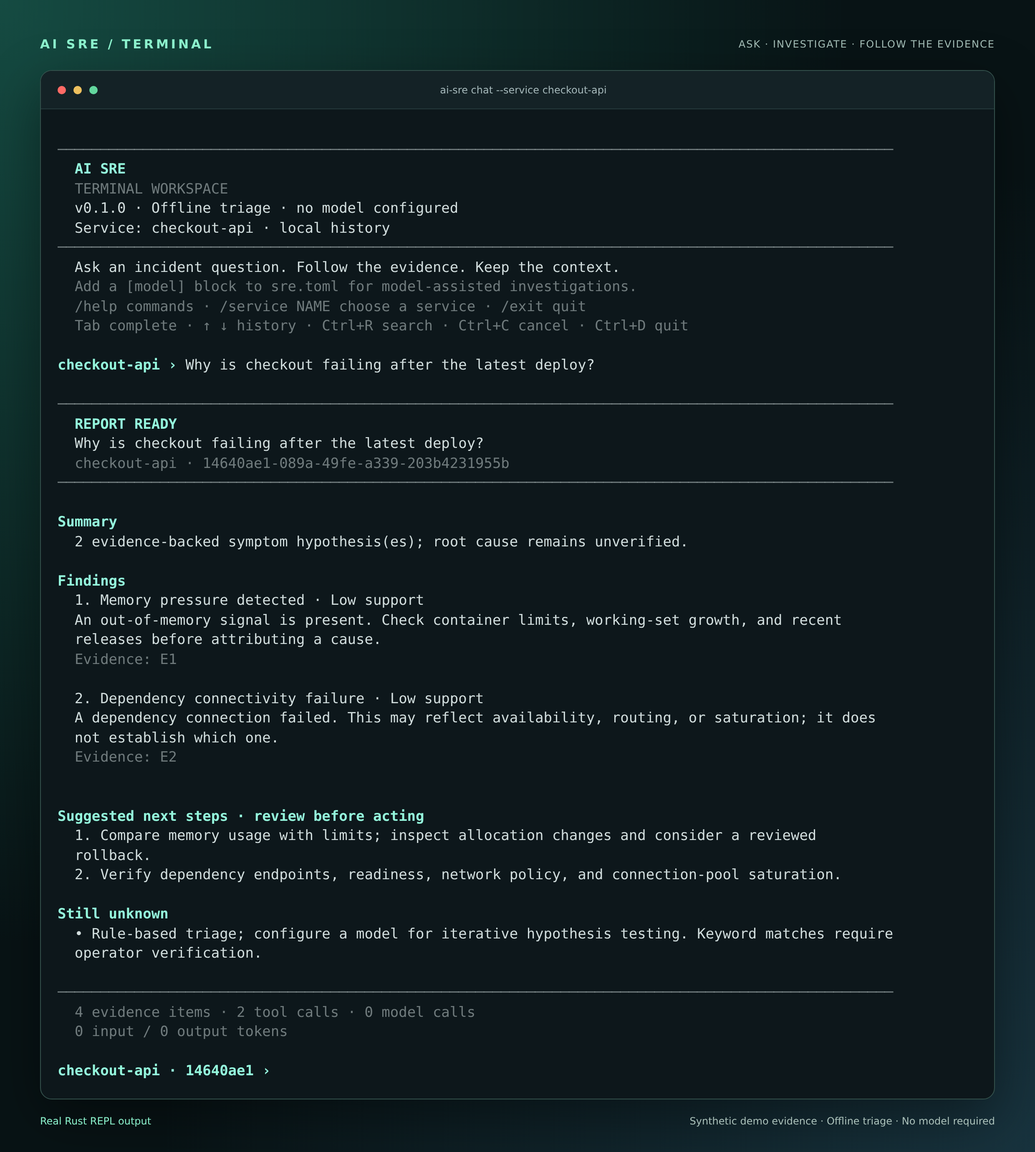
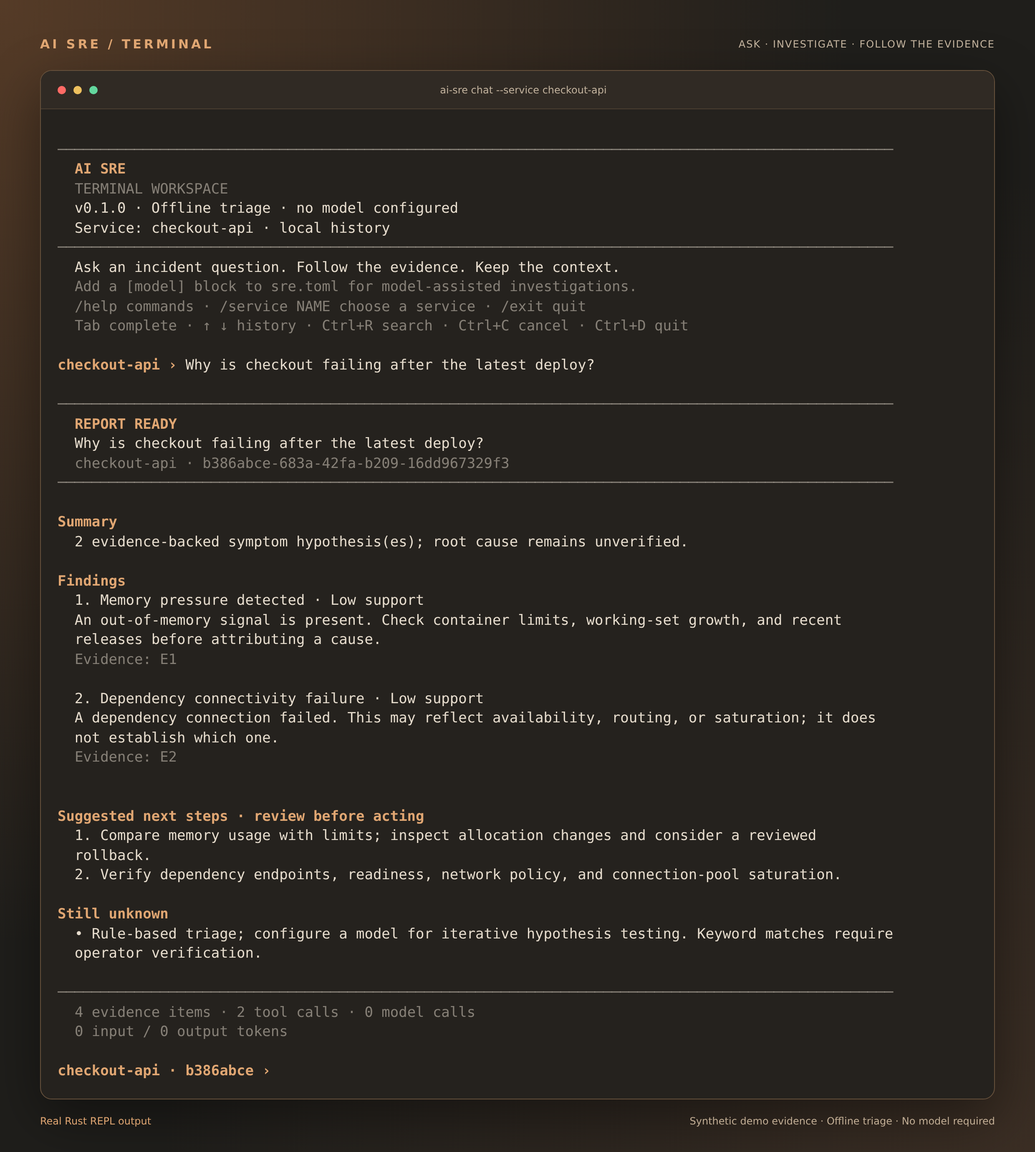
Apply a warm amber theme to the terminal and dashboard

diff --git a/web/style.css b/web/style.css
@@ -1,2 +1,6 @@
-:root{color-scheme:dark;--bg:#0a1019;--panel:#111a26;--border:#243142;--muted:#91a0b5;--text:#e7edf7;--accent:#73e5c0;--soft:#162c2b;font:14px/1.55 Inter,ui-sans-serif,-apple-system,BlinkMacSystemFont,"Segoe UI",sans-serif}*{box-sizing:border-box}body{margin:0;background:var(--bg);color:var(--text)}button,input,textarea,select{font:inherit}button,a,input,select,textarea{outline-offset:4px}button{cursor:pointer}button:disabled{opacity:.45;cursor:wait}button{border:1px solid var(--border);border-radius:7px;color:var(--text);background:transparent;padding:9px 14px}button:hover{background:#202e3c}a{color:inherit}input,textarea,select{background:#0d1520;border:1px solid var(--border);border-radius:6px;color:var(--text);padding:10px;width:100%}input:focus,textarea:focus,select:focus{outline:1px solid var(--accent)}.sidebar{width:232px;position:fixed;inset:0 auto 0 0;background:#0e1621;border-right:1px solid var(--border);padding:26px 18px}.brand{font-size:22px;font-weight:750;display:flex;align-items:center;gap:9px;text-decoration:none;letter-spacing:-1px}.brand-icon{width:30px;height:32px;color:var(--accent);font-size:36px;line-height:26px}.alpha{font-size:9px;letter-spacing:1px;color:var(--muted);border:1px solid var(--border);padding:2px 5px;border-radius:4px;margin-left:3px}.workspace{display:flex;gap:10px;padding:24px 0 30px;align-items:center;font-size:12px}.workspace small{display:block;font-size:10px;color:var(--muted)}.workspace-mark{background:#253043;border:1px solid #3b485b;border-radius:7px;padding:6px 11px;font-weight:600}.nav-label{color:#728298;letter-spacing:1.6px;font-size:10px;padding:0 10px;margin-bottom:12px}.nav-item{border:0;width:100%;display:flex;align-items:center;gap:12px;text-align:left;margin:5px 0;color:var(--muted);font-size:13px}.nav-item.active{background:#1a3030;color:var(--accent)}.nav-item b{margin-left:auto;font-size:10px;border:1px solid #2b514a;border-radius:4px;padding:0 5px}.sidebar-bottom{position:absolute;bottom:26px;font-size:11px;color:var(--muted);padding-left:8px}.sidebar-bottom small{display:block;color:#596b81;margin-top:8px}.live-dot{display:inline-block;width:6px;height:6px;border-radius:50%;background:var(--accent);margin-right:5px;box-shadow:0 0 9px #73e5c022}main{margin-left:232px}header{height:70px;border-bottom:1px solid var(--border);padding:0 36px;display:flex;justify-content:space-between;align-items:center}.breadcrumb{font-size:12px;color:var(--muted)}.breadcrumb span{margin:0 14px;color:#4c5d73}.breadcrumb strong{color:#c3cede;font-weight:500}.header-actions{display:flex;gap:18px;align-items:center}.mode{font-size:9px;letter-spacing:1.2px;color:var(--muted)}.icon-button{padding:3px 10px;font-size:21px}#incident-page,#connections-page{padding:34px 36px}.page-title{display:flex;justify-content:space-between;align-items:center;gap:20px;margin-bottom:28px}.eyebrow{font-size:9px;letter-spacing:2px;color:var(--accent);margin:0 0 10px;font-weight:650}h1{font-size:29px;line-height:1.3;font-weight:600;letter-spacing:-.8px;margin:0 0 8px}h2{font-size:15px;letter-spacing:-.2px;margin:0}h3{font-size:13px;margin:0 0 9px}.muted{color:var(--muted);font-size:12px;margin:0}.primary{color:#071d17;background:var(--accent);border-color:var(--accent);font-size:12px;font-weight:650;padding:10px 16px;white-space:nowrap}.primary:hover{background:#9bf1d6}.primary span{font-size:18px;margin-right:5px}.secondary{font-size:12px;background:#1a2635}.stats{display:grid;grid-template-columns:repeat(4,1fr);border:1px solid var(--border);border-radius:9px;background:linear-gradient(120deg,#14202c,#101924);margin-bottom:28px}.stats article{padding:18px 22px;border-right:1px solid var(--border)}.stats article:last-child{border:0}.stats span{font-size:11px;color:#b5c0d1}.stats strong{display:block;font-size:28px;line-height:1.5;font-weight:500;letter-spacing:-1px}.stats small{color:#71839b;font-size:10px}.stats i{margin-left:5px}.workbench{display:grid;grid-template-columns:minmax(230px,32%) 1fr;border:1px solid var(--border);border-radius:9px;min-height:500px;overflow:hidden;background:#0f1823}.incident-list{border-right:1px solid var(--border);padding:18px 12px}.list-heading{display:flex;align-items:center;justify-content:space-between;padding:0 6px 16px}.list-heading h2{font-size:13px}.text-button{border:0;font-size:10px;color:var(--muted);padding:3px}.search{display:flex;align-items:center;padding:0 9px;background:#0a121c;border:1px solid var(--border);border-radius:5px;margin:0 5px 10px}.search input{border:0;background:transparent;font-size:11px;padding:9px}.search span{font-size:20px;color:var(--muted)}.filter-label{display:flex;align-items:center;font-size:10px;color:var(--muted);gap:10px;padding:0 5px 12px}.filter-label select{font-size:10px;padding:5px;width:auto}.incident-card{display:block;width:100%;text-align:left;border:1px solid transparent;border-radius:6px;padding:13px 12px;margin-bottom:6px;background:transparent}.incident-card.selected{background:#192a33;border-color:#31514f}.incident-card:hover{background:#192735}.incident-card strong{display:block;font-size:12px;font-weight:500;line-height:1.6;margin:7px 0;color:var(--text);overflow-wrap:anywhere}.incident-card small{font-size:10px;color:var(--muted)}.card-top{display:flex;justify-content:space-between;align-items:center;gap:5px}.card-top .service{font:10px ui-monospace,monospace;color:#9cbbce;overflow:hidden;text-overflow:ellipsis}.badge{font-size:9px;border-radius:4px;padding:2px 6px;white-space:nowrap;text-transform:capitalize;background:#263446;color:#bdcadb}.badge.triaged{background:#163c30;color:#8be4b9}.badge.investigating{background:#183b4d;color:#80cff4}.badge.failed{background:#452a2e;color:#f2a2ad}.badge.resolved{background:#292b40;color:#b5b0e8}.detail{min-width:0}.empty{text-align:center;padding:95px 30px;color:var(--muted)}.empty-icon{font-size:40px;color:#669b98;line-height:1.5;margin-bottom:10px}.empty h2{color:#d5e1eb;font-size:19px}.empty p{max-width:320px;margin:12px auto 22px;font-size:12px}.detail-header{padding:23px 24px 18px;border-bottom:1px solid var(--border)}.detail-meta{display:flex;gap:10px;align-items:center;margin-bottom:12px;font-size:10px;color:var(--muted)}.detail-header h2{font-size:20px;font-weight:550;line-height:1.5;overflow-wrap:anywhere}.detail-actions{display:flex;gap:8px;margin-top:15px}.detail-actions button{font-size:10px;padding:6px 10px}.tabs{display:flex;padding:0 24px;border-bottom:1px solid var(--border);gap:24px}.tabs button{border:0;border-bottom:2px solid transparent;border-radius:0;color:var(--muted);padding:12px 0;font-size:11px}.tabs button.active{color:var(--accent);border-bottom-color:var(--accent)}.detail-body{padding:22px 24px}.summary{font-size:13px;line-height:1.7;margin:0 0 20px}.section-label{font-size:9px;letter-spacing:1.5px;color:var(--muted);margin:22px 0 12px}.finding{padding:15px;border:1px solid #28423f;border-radius:6px;background:#132824;margin-bottom:12px}.finding h3{color:#a6e7d2}.finding p{color:#b3c9c7;font-size:12px;margin:6px 0 12px;line-height:1.7}.citation{display:inline-block;font:10px ui-monospace,monospace;background:#214239;color:#a1e9d2;border:1px solid #345d50;border-radius:3px;padding:2px 6px;margin-right:5px;cursor:pointer}.confidence{float:right;font-size:9px;color:#8eb7a9;font-weight:400}.steps{padding-left:19px;font-size:12px;color:#c8d2e0}.steps li{padding:4px 0 7px 4px}.gap{border-left:2px solid #a98d54;padding-left:12px;color:#b6ab91;font-size:11px;margin:12px 0}.evidence-item{border:1px solid var(--border);border-radius:6px;padding:12px;margin-bottom:12px}.evidence-item summary{cursor:pointer;font-size:12px;overflow-wrap:anywhere}.evidence-item small{color:var(--muted);font-size:10px;display:block;margin-top:8px}.evidence-item pre{background:#0a111a;padding:12px;border-radius:4px;font-size:10px;white-space:pre-wrap;overflow-wrap:anywhere;max-height:350px;overflow:auto}.event{border-left:1px solid #334358;padding:0 0 20px 18px;margin-left:5px}.event strong{font-size:11px;font-weight:500}.event p{font-size:11px;color:var(--muted);margin:3px 0}.event small{font-size:9px;color:#6e829b}.followup{display:flex;gap:8px;margin-top:22px}.followup input{font-size:11px}.followup button{font-size:10px}.usage{font-size:9px;color:#71839b;margin-top:20px}.connection-grid{display:grid;grid-template-columns:repeat(3,1fr);gap:15px}.connection-card{border:1px solid var(--border);border-radius:8px;padding:22px;background:var(--panel)}.connection-card h2{margin-bottom:16px}.note{margin-top:24px;padding:22px;background:var(--panel);border:1px solid var(--border);border-radius:8px;font-size:12px;color:var(--muted)}.note strong{color:var(--text)}code{font:11px ui-monospace,monospace}dialog{background:#121d2a;color:var(--text);border:1px solid #3a4d61;border-radius:12px;width:min(520px,92vw);padding:28px;box-shadow:0 20px 100px #0009}dialog::backdrop{background:#03070fc9;backdrop-filter:blur(4px)}.dialog-heading{display:flex;align-items:start;justify-content:space-between;margin-bottom:24px}.dialog-heading h2{font-size:21px}form label{display:block;font-size:12px;color:#bdcada;margin:18px 0}form label input,form label textarea{display:block;margin-top:8px}form>.primary{margin-top:20px;width:100%}.form-error{color:#ffacb1;font-size:12px}#notice{position:fixed;right:26px;bottom:24px;max-width:450px;padding:13px 19px;background:#243a47;border:1px solid #4e6d7f;border-radius:7px;color:#e1edf3;box-shadow:0 5px 25px #0007;font-size:12px}#notice.error{background:#452b30;border-color:#74414c}.no-results{padding:25px 12px;color:var(--muted);font-size:12px;text-align:center}[hidden]{display:none!important}@media(min-width:1600px){#incident-page,#connections-page{max-width:1500px;margin:auto}}@media(max-width:1100px){.sidebar{width:190px;padding:24px 12px}main{margin-left:190px}#incident-page,#connections-page{padding:25px 20px}.page-title{align-items:flex-start}h1{font-size:24px}.stats article{padding:15px}.stats small{font-size:9px}.workbench{grid-template-columns:240px 1fr}.detail-header,.detail-body{padding:18px}.connection-grid{grid-template-columns:repeat(2,1fr)}}@media(max-width:760px){.sidebar{position:static;width:auto;height:auto;padding:12px 16px;display:flex;align-items:center;gap:12px}.brand{font-size:18px;margin-right:auto}.brand-icon{font-size:27px}.workspace,.nav-label,.sidebar-bottom,.alpha,.nav-item span,.nav-item b{display:none}.nav-item{width:auto;font-size:11px;padding:7px}.sidebar .nav-item{margin:0}main{margin:0}header{height:50px;padding:0 18px}.mode{font-size:8px}.page-title{display:block}.page-title .primary{margin-top:18px}#incident-page,#connections-page{padding:23px 16px}.stats{grid-template-columns:repeat(2,1fr)}.stats article:nth-child(2){border-right:0}.stats article:nth-child(-n+2){border-bottom:1px solid var(--border)}.workbench{display:block}.incident-list{border-right:0;border-bottom:1px solid var(--border)}#incident-items{max-height:250px;overflow-y:auto}.connection-grid{grid-template-columns:1fr}.tabs{gap:20px}.empty{padding:55px 20px}}
-#operations-page{padding:34px 36px}.ops-grid{display:grid;grid-template-columns:minmax(0,1.6fr) minmax(260px,1fr);gap:24px}.ops-card{margin-top:16px}.ops-card pre{white-space:pre-wrap;overflow-wrap:anywhere;max-height:360px;overflow:auto;font-size:11px;background:var(--bg);padding:12px}.ops-card details{margin:12px 0}.reviewer{display:block;margin:12px 0;font-size:11px}.reviewer input{margin:6px 0}.detail-actions{flex-wrap:wrap}.badge.cancelled,.badge.rejected{background:#382b3a;color:#d3b0d6}.badge.verified{background:#163c30;color:#8be4b9}@media(max-width:760px){#operations-page{padding:23px 16px}.ops-grid{display:flex;flex-direction:column-reverse;gap:8px}.sidebar{flex-wrap:wrap}.brand{min-width:120px}.nav-item{font-size:10px;padding:5px}.tabs{overflow:auto;white-space:nowrap}}
+/* Warm charcoal, parchment text, and amber accents. Keep semantic status colors distinct. */
+:root{color-scheme:dark;--bg:#1f1e1b;--panel:#292723;--border:#484039;--muted:#b8ac9b;--text:#f0e8dc;--accent:#e0a672;--soft:#392e24;font:14px/1.55 Inter,ui-sans-serif,-apple-system,BlinkMacSystemFont,"Segoe UI",sans-serif}*{box-sizing:border-box}body{margin:0;background:var(--bg);color:var(--text)}button,input,textarea,select{font:inherit}button,a,input,select,textarea{outline-offset:4px}button{cursor:pointer}button:disabled{opacity:.45;cursor:wait}button{border:1px solid var(--border);border-radius:7px;color:var(--text);background:transparent;padding:9px 14px}button:hover{background:#37312b}a{color:inherit}input,textarea,select{background:#24221e;border:1px solid var(--border);border-radius:6px;color:var(--text);padding:10px;width:100%}input:focus,textarea:focus,select:focus{outline:1px solid var(--accent)}.sidebar{width:232px;position:fixed;inset:0 auto 0 0;background:#24221f;border-right:1px solid var(--border);padding:26px 18px}.brand{font-size:22px;font-weight:750;display:flex;align-items:center;gap:9px;text-decoration:none;letter-spacing:-1px}.brand-icon{width:30px;height:32px;color:var(--accent);font-size:36px;line-height:26px}.alpha{font-size:9px;letter-spacing:1px;color:var(--muted);border:1px solid var(--border);padding:2px 5px;border-radius:4px;margin-left:3px}.workspace{display:flex;gap:10px;padding:24px 0 30px;align-items:center;font-size:12px}.workspace small{display:block;font-size:10px;color:var(--muted)}.workspace-mark{background:#38312a;border:1px solid #574b3e;border-radius:7px;padding:6px 11px;font-weight:600}.nav-label{color:#b3a18e;letter-spacing:1.6px;font-size:10px;padding:0 10px;margin-bottom:12px}.nav-item{border:0;width:100%;display:flex;align-items:center;gap:12px;text-align:left;margin:5px 0;color:var(--muted);font-size:13px}.nav-item.active{background:#3b3025;color:var(--accent)}.nav-item b{margin-left:auto;font-size:10px;border:1px solid #705339;border-radius:4px;padding:0 5px}.sidebar-bottom{position:absolute;bottom:26px;font-size:11px;color:var(--muted);padding-left:8px}.sidebar-bottom small{display:block;color:#ac9a87;margin-top:8px}.live-dot{display:inline-block;width:6px;height:6px;border-radius:50%;background:var(--accent);margin-right:5px;box-shadow:0 0 9px #e0a67222}main{margin-left:232px}header{height:70px;border-bottom:1px solid var(--border);padding:0 36px;display:flex;justify-content:space-between;align-items:center}.breadcrumb{font-size:12px;color:var(--muted)}.breadcrumb span{margin:0 14px;color:#9f8c78}.breadcrumb strong{color:#dfd1bf;font-weight:500}.header-actions{display:flex;gap:18px;align-items:center}.mode{font-size:9px;letter-spacing:1.2px;color:var(--muted)}.icon-button{padding:3px 10px;font-size:21px}#incident-page,#connections-page{padding:34px 36px}.page-title{display:flex;justify-content:space-between;align-items:center;gap:20px;margin-bottom:28px}.eyebrow{font-size:9px;letter-spacing:2px;color:var(--accent);margin:0 0 10px;font-weight:650}h1{font-size:29px;line-height:1.3;font-weight:600;letter-spacing:-.8px;margin:0 0 8px}h2{font-size:15px;letter-spacing:-.2px;margin:0}h3{font-size:13px;margin:0 0 9px}.muted{color:var(--muted);font-size:12px;margin:0}.primary{color:#211a13;background:var(--accent);border-color:var(--accent);font-size:12px;font-weight:650;padding:10px 16px;white-space:nowrap}.primary:hover{background:#edbd91}.primary span{font-size:18px;margin-right:5px}.secondary{font-size:12px;background:#342e27}.stats{display:grid;grid-template-columns:repeat(4,1fr);border:1px solid var(--border);border-radius:9px;background:linear-gradient(120deg,#302a23,#27241f);margin-bottom:28px}.stats article{padding:18px 22px;border-right:1px solid var(--border)}.stats article:last-child{border:0}.stats span{font-size:11px;color:#d2c3b1}.stats strong{display:block;font-size:28px;line-height:1.5;font-weight:500;letter-spacing:-1px}.stats small{color:#b3a18c;font-size:10px}.stats i{margin-left:5px}.workbench{display:grid;grid-template-columns:minmax(230px,32%) 1fr;border:1px solid var(--border);border-radius:9px;min-height:500px;overflow:hidden;background:#24221e}.incident-list{border-right:1px solid var(--border);padding:18px 12px}.list-heading{display:flex;align-items:center;justify-content:space-between;padding:0 6px 16px}.list-heading h2{font-size:13px}.text-button{border:0;font-size:10px;color:var(--muted);padding:3px}.search{display:flex;align-items:center;padding:0 9px;background:#201e1a;border:1px solid var(--border);border-radius:5px;margin:0 5px 10px}.search input{border:0;background:transparent;font-size:11px;padding:9px}.search span{font-size:20px;color:var(--muted)}.filter-label{display:flex;align-items:center;font-size:10px;color:var(--muted);gap:10px;padding:0 5px 12px}.filter-label select{font-size:10px;padding:5px;width:auto}.incident-card{display:block;width:100%;text-align:left;border:1px solid transparent;border-radius:6px;padding:13px 12px;margin-bottom:6px;background:transparent}.incident-card.selected{background:#3a2f24;border-color:#8b6340}.incident-card:hover{background:#332d26}.incident-card strong{display:block;font-size:12px;font-weight:500;line-height:1.6;margin:7px 0;color:var(--text);overflow-wrap:anywhere}.incident-card small{font-size:10px;color:var(--muted)}.card-top{display:flex;justify-content:space-between;align-items:center;gap:5px}.card-top .service{font:10px ui-monospace,monospace;color:#d7ba95;overflow:hidden;text-overflow:ellipsis}.badge{font-size:9px;border-radius:4px;padding:2px 6px;white-space:nowrap;text-transform:capitalize;background:#3d352c;color:#ded0bc}.badge.triaged{background:#333b2b;color:#bfd49b}.badge.investigating{background:#483524;color:#efbe89}.badge.failed{background:#492d29;color:#f2aaa0}.badge.resolved{background:#38342f;color:#d3c5b3}.detail{min-width:0}.empty{text-align:center;padding:95px 30px;color:var(--muted)}.empty-icon{font-size:40px;color:#d69a65;line-height:1.5;margin-bottom:10px}.empty h2{color:#e9ddcc;font-size:19px}.empty p{max-width:320px;margin:12px auto 22px;font-size:12px}.detail-header{padding:23px 24px 18px;border-bottom:1px solid var(--border)}.detail-meta{display:flex;gap:10px;align-items:center;margin-bottom:12px;font-size:10px;color:var(--muted)}.detail-header h2{font-size:20px;font-weight:550;line-height:1.5;overflow-wrap:anywhere}.detail-actions{display:flex;gap:8px;margin-top:15px}.detail-actions button{font-size:10px;padding:6px 10px}.tabs{display:flex;padding:0 24px;border-bottom:1px solid var(--border);gap:24px}.tabs button{border:0;border-bottom:2px solid transparent;border-radius:0;color:var(--muted);padding:12px 0;font-size:11px}.tabs button.active{color:var(--accent);border-bottom-color:var(--accent)}.detail-body{padding:22px 24px}.summary{font-size:13px;line-height:1.7;margin:0 0 20px}.section-label{font-size:9px;letter-spacing:1.5px;color:var(--muted);margin:22px 0 12px}.finding{padding:15px;border:1px solid #65503a;border-radius:6px;background:#31291f;margin-bottom:12px}.finding h3{color:#efbd8b}.finding p{color:#d4c3ad;font-size:12px;margin:6px 0 12px;line-height:1.7}.citation{display:inline-block;font:10px ui-monospace,monospace;background:#473421;color:#f3c79b;border:1px solid #83603d;border-radius:3px;padding:2px 6px;margin-right:5px;cursor:pointer}.confidence{float:right;font-size:9px;color:#cdb18e;font-weight:400}.steps{padding-left:19px;font-size:12px;color:#dfd2bf}.steps li{padding:4px 0 7px 4px}.gap{border-left:2px solid #d6a36a;padding-left:12px;color:#d3b992;font-size:11px;margin:12px 0}.evidence-item{border:1px solid var(--border);border-radius:6px;padding:12px;margin-bottom:12px}.evidence-item summary{cursor:pointer;font-size:12px;overflow-wrap:anywhere}.evidence-item small{color:var(--muted);font-size:10px;display:block;margin-top:8px}.evidence-item pre{background:#1d1b18;padding:12px;border-radius:4px;font-size:10px;white-space:pre-wrap;overflow-wrap:anywhere;max-height:350px;overflow:auto}.event{border-left:1px solid #5b4c3c;padding:0 0 20px 18px;margin-left:5px}.event strong{font-size:11px;font-weight:500}.event p{font-size:11px;color:var(--muted);margin:3px 0}.event small{font-size:9px;color:#b6a18a}.followup{display:flex;gap:8px;margin-top:22px}.followup input{font-size:11px}.followup button{font-size:10px}.usage{font-size:9px;color:#b3a18c;margin-top:20px}.connection-grid{display:grid;grid-template-columns:repeat(3,1fr);gap:15px}.connection-card{border:1px solid var(--border);border-radius:8px;padding:22px;background:var(--panel)}.connection-card h2{margin-bottom:16px}.note{margin-top:24px;padding:22px;background:var(--panel);border:1px solid var(--border);border-radius:8px;font-size:12px;color:var(--muted)}.note strong{color:var(--text)}code{font:11px ui-monospace,monospace}dialog{background:#2b2620;color:var(--text);border:1px solid #74604a;border-radius:12px;width:min(520px,92vw);padding:28px;box-shadow:0 20px 100px #0009}dialog::backdrop{background:#15120fc9;backdrop-filter:blur(4px)}.dialog-heading{display:flex;align-items:start;justify-content:space-between;margin-bottom:24px}.dialog-heading h2{font-size:21px}form label{display:block;font-size:12px;color:#dac9b2;margin:18px 0}form label input,form label textarea{display:block;margin-top:8px}form>.primary{margin-top:20px;width:100%}.form-error{color:#ffb2a2;font-size:12px}#notice{position:fixed;right:26px;bottom:24px;max-width:450px;padding:13px 19px;background:#3e3327;border:1px solid #8d6c49;border-radius:7px;color:#f0dfc8;box-shadow:0 5px 25px #0007;font-size:12px}#notice.error{background:#492c26;border-color:#a46553}.no-results{padding:25px 12px;color:var(--muted);font-size:12px;text-align:center}[hidden]{display:none!important}@media(min-width:1600px){#incident-page,#connections-page{max-width:1500px;margin:auto}}@media(max-width:1100px){.sidebar{width:190px;padding:24px 12px}main{margin-left:190px}#incident-page,#connections-page{padding:25px 20px}.page-title{align-items:flex-start}h1{font-size:24px}.stats article{padding:15px}.stats small{font-size:9px}.workbench{grid-template-columns:240px 1fr}.detail-header,.detail-body{padding:18px}.connection-grid{grid-template-columns:repeat(2,1fr)}}@media(max-width:760px){.sidebar{position:static;width:auto;height:auto;padding:12px 16px;display:flex;align-items:center;gap:12px}.brand{font-size:18px;margin-right:auto}.brand-icon{font-size:27px}.workspace,.nav-label,.sidebar-bottom,.alpha,.nav-item span,.nav-item b{display:none}.nav-item{width:auto;font-size:11px;padding:7px}.sidebar .nav-item{margin:0}main{margin:0}header{height:50px;padding:0 18px}.mode{font-size:8px}.page-title{display:block}.page-title .primary{margin-top:18px}#incident-page,#connections-page{padding:23px 16px}.stats{grid-template-columns:repeat(2,1fr)}.stats article:nth-child(2){border-right:0}.stats article:nth-child(-n+2){border-bottom:1px solid var(--border)}.workbench{display:block}.incident-list{border-right:0;border-bottom:1px solid var(--border)}#incident-items{max-height:250px;overflow-y:auto}.connection-grid{grid-template-columns:1fr}.tabs{gap:20px}.empty{padding:55px 20px}}
+#operations-page{padding:34px 36px}.ops-grid{display:grid;grid-template-columns:minmax(0,1.6fr) minmax(260px,1fr);gap:24px}.ops-card{margin-top:16px}.ops-card pre{white-space:pre-wrap;overflow-wrap:anywhere;max-height:360px;overflow:auto;font-size:11px;background:var(--bg);padding:12px}.ops-card details{margin:12px 0}.reviewer{display:block;margin:12px 0;font-size:11px}.reviewer input{margin:6px 0}.detail-actions{flex-wrap:wrap}.badge.cancelled,.badge.rejected{background:#3e302c;color:#ddbaab}.badge.verified{background:#333b2b;color:#bfd49b}@media(max-width:760px){#operations-page{padding:23px 16px}.ops-grid{display:flex;flex-direction:column-reverse;gap:8px}.sidebar{flex-wrap:wrap}.brand{min-width:120px}.nav-item{font-size:10px;padding:5px}.tabs{overflow:auto;white-space:nowrap}}
+
+::selection{background:var(--accent);color:#211a13}
+button:focus-visible,a:focus-visible,summary:focus-visible{outline:2px solid var(--accent)}

diff --git a/surfaces/shared/terminal.rs b/surfaces/shared/terminal.rs
@@ -6,6 +6,17 @@ use std::{
 };
 use unicode_width::UnicodeWidthChar;
 
+/// Warm amber, with indexed and basic ANSI fallbacks for terminal capabilities.
+pub fn accent_code() -> &'static str {
+    if std::env::var("COLORTERM").is_ok_and(|v| matches!(v.as_str(), "truecolor" | "24bit")) {
+        "1;38;2;224;166;114"
+    } else if std::env::var("TERM").is_ok_and(|v| v.contains("256color")) {
+        "1;38;5;180"
+    } else {
+        "1;33"
+    }
+}
+
 pub fn clean(text: &str) -> String {
     // Strip complete ANSI CSI / OSC sequences as well as standalone control characters.
     let mut out = String::new();
@@ -84,7 +95,7 @@ impl Ui {
     pub fn heading(&self, text: &str) {
         println!();
         for line in wrap(&clean(text), self.width.saturating_sub(2)) {
-            println!("{}", self.style(&line, "1;36"));
+            println!("{}", self.style(&line, accent_code()));
         }
     }
     pub fn text(&self, text: &str) {
@@ -145,10 +156,11 @@ pub async fn progress<F: Future>(enabled: bool, future: F) -> F::Output {
     let mut tick = tokio::time::interval(Duration::from_millis(100));
     let frames = ['⠋', '⠙', '⠹', '⠸', '⠼', '⠴', '⠦', '⠧', '⠇', '⠏'];
     let mut frame = 0;
+    let accent = accent_code();
     let result = loop {
         tokio::select! {
             result=&mut future=>break result,
-            _=tick.tick()=> {let mut stderr=io::stderr().lock();let _=write!(stderr,"\r\x1b[2K  \x1b[36m{}\x1b[0m Investigating · {}s · Ctrl+C to cancel",frames[frame%frames.len()],started.elapsed().as_secs());let _=stderr.flush();frame+=1;}
+            _=tick.tick()=> {let mut stderr=io::stderr().lock();let _=write!(stderr,"\r\x1b[2K  \x1b[{accent}m{}\x1b[0m Investigating · {}s · Ctrl+C to cancel",frames[frame%frames.len()],started.elapsed().as_secs());let _=stderr.flush();frame+=1;}
         }
     };
     let mut stderr = io::stderr().lock();

diff --git a/surfaces/interactive_shell/editor.rs b/surfaces/interactive_shell/editor.rs
@@ -1,4 +1,4 @@
-use crate::surfaces::shared::terminal::{clean, interactive};
+use crate::surfaces::shared::terminal::{accent_code, clean, interactive};
 use anyhow::Result;
 use rustyline::{
     Context, Editor, Helper,
@@ -88,7 +88,7 @@ impl Highlighter for ShellHelper {
         _default: bool,
     ) -> Cow<'b, str> {
         if self.color {
-            Cow::Owned(format!("\x1b[1;36m{prompt}\x1b[0m"))
+            Cow::Owned(format!("\x1b[{}m{prompt}\x1b[0m", accent_code()))
         } else {
             Cow::Borrowed(prompt)
         }

diff --git a/surfaces/shared/output.rs b/surfaces/shared/output.rs
@@ -1,4 +1,4 @@
-use super::terminal::Ui;
+use super::terminal::{Ui, accent_code};
 use crate::domain::{Incident, Status};
 use anyhow::Result;
 pub fn print_incident(i: &Incident, json: bool) -> Result<()> {
@@ -24,7 +24,7 @@ pub fn print_incident(i: &Incident, json: bool) -> Result<()> {
             if matches!(i.status, Status::Failed | Status::Cancelled) {
                 "1;33"
             } else {
-                "1;36"
+                accent_code()
             }
         )
     );

diff --git a/surfaces/interactive_shell/mod.rs b/surfaces/interactive_shell/mod.rs
@@ -19,7 +19,7 @@ use uuid::Uuid;
 fn welcome(ui: Ui, config: &Config, service: &str) {
     println!();
     ui.rule();
-    println!("  {}", ui.style("AI SRE", "1;36"));
+    println!("  {}", ui.style("AI SRE", terminal::accent_code()));
     ui.note("TERMINAL WORKSPACE");
     ui.text(&format!(
         "v{} · {}",

diff --git a/docs/terminal.md b/docs/terminal.md
@@ -20,6 +20,8 @@ printf '%s' 'Check service health' | ai-sre ask - --service checkout-api --json
 
 The terminal uses scrollback rather than an alternate-screen dashboard. Reports have a status banner, summary, findings with evidence references, suggested next steps, gaps, and usage. Text wraps to terminal width. During an investigation, a progress indicator shows elapsed time and the cancellation shortcut; it does not simulate token streaming.
 
+The default accent is warm amber (`#e0a672`), shared with the dashboard. True-color terminals use the exact color; 256-color and basic ANSI terminals use compatible fallbacks. The CLI inherits your terminal's background and normal text colors. To match the README preview, set your terminal background to `#25221e` and foreground to `#e6dccd`. `NO_COLOR` keeps plain output available.
+
 ## Editing and navigation
 
 - Tab completes slash commands; press Tab again to list ambiguous matches.
